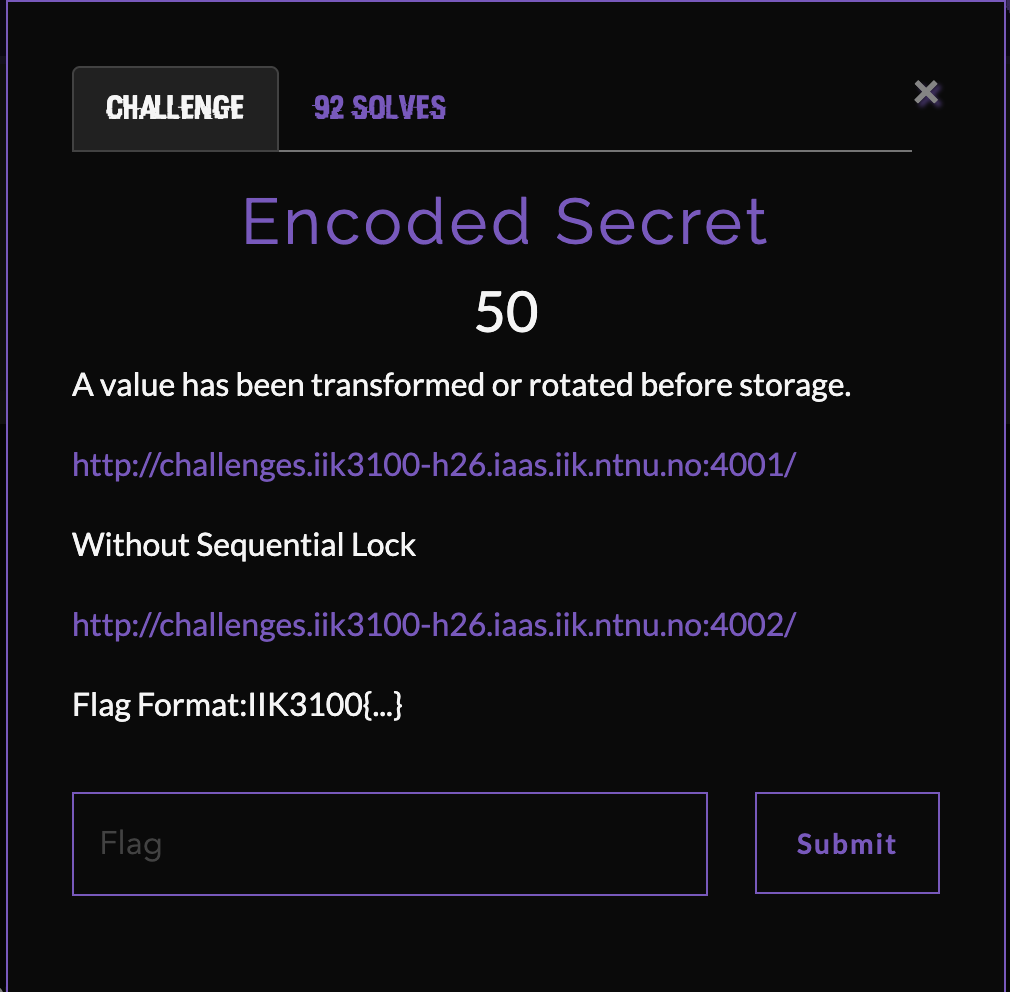
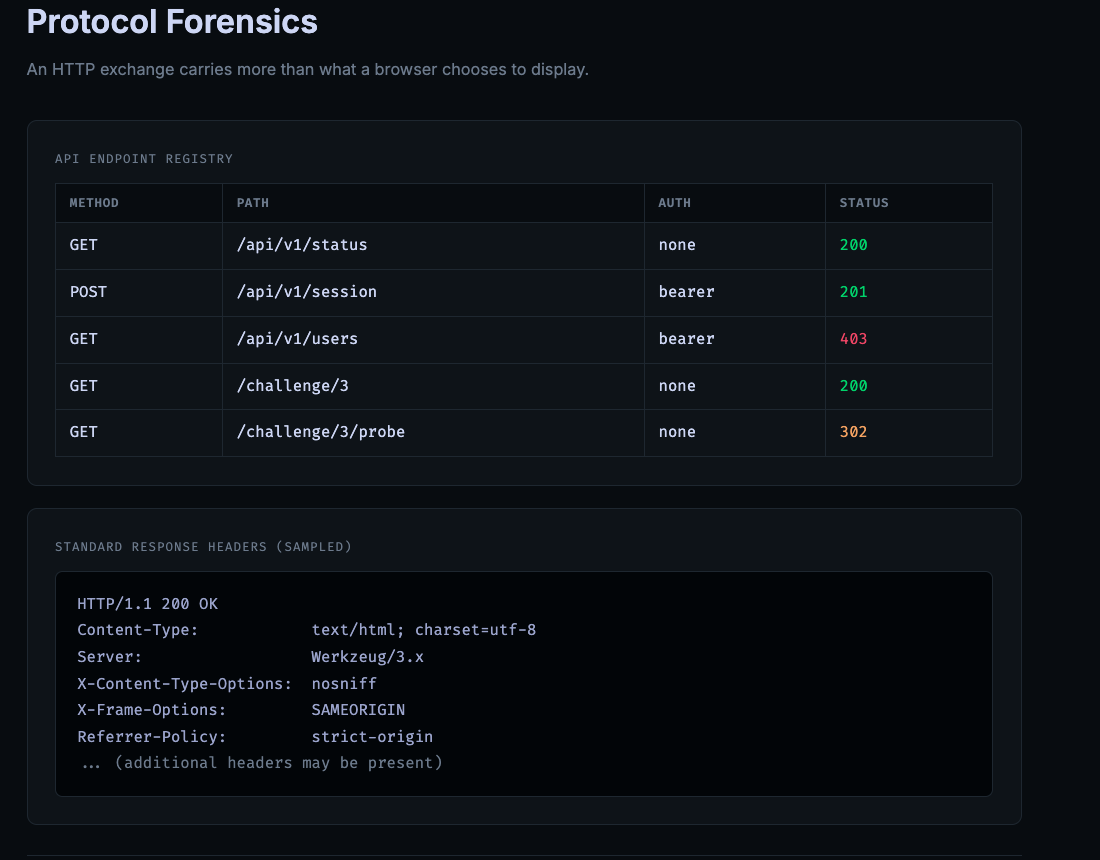
moved files

diff --git a/WEB/14-Protocol_Forensics.md b/WEB/14-Protocol_Forensics.md
@@ -1,0 +1,47 @@
+# Protocol Forensics
+
+**Challenge:** *An HTTP exchange carries more than what a browser chooses to display.*
+
+- `http://challenges.iik3100-h26.iaas.iik.ntnu.no:4001/` — sequential lock
+- `http://challenges.iik3100-h26.iaas.iik.ntnu.no:4002/` — without sequential lock
+
+![Challenge](images/01-challenge.png)
+
+## Recon
+
+The page displayed an "API Endpoint Registry" listing five paths with mixed status codes:
+
+| Path | Status | Auth |
+|------|--------|------|
+| `/api/v1/status` | 200 | none |
+| `/api/v1/session` | 201 | bearer |
+| `/api/v1/users` | 403 | bearer |
+| `/challenge/3` | 200 | none |
+| `/challenge/3/probe` | 302 | none |
+
+This table was misdirection. The bearer-auth endpoints were dead ends (no token to hand over), and the whole registry pushed you to enumerate multiple targets. Ran everything through Burp anyway to look at the raw exchanges:
+
+![Proxy history](images/02-proxy-history.png)
+
+## Solve
+
+The flag was in the response headers of `/challenge/3` — the challenge page itself, the one already open in the browser. Two custom headers past the standard set:
+
+![Response headers](images/03-response-headers.png)
+
+```
+X-Token-Alpha: IIK3100{HTTP_H34d
+X-Token-Beta:  3rs_T3ll_S3cr3ts}
+```
+
+Concatenated: `IIK3100{HTTP_H34d3rs_T3ll_S3cr3ts}`
+
+## Flag
+
+```
+IIK3100{HTTP_H34d3rs_T3ll_S3cr3ts}
+```
+
+## Takeaway
+
+The browser renders the response body, follows redirects silently, and hides response headers. Custom `X-*` headers, `Location` on redirects, `Set-Cookie` — none of it shows up unless you look at the raw exchange (DevTools Network tab, `curl -v`, or a proxy like Burp). Always check headers on web CTFs, even on pages you're already looking at.
